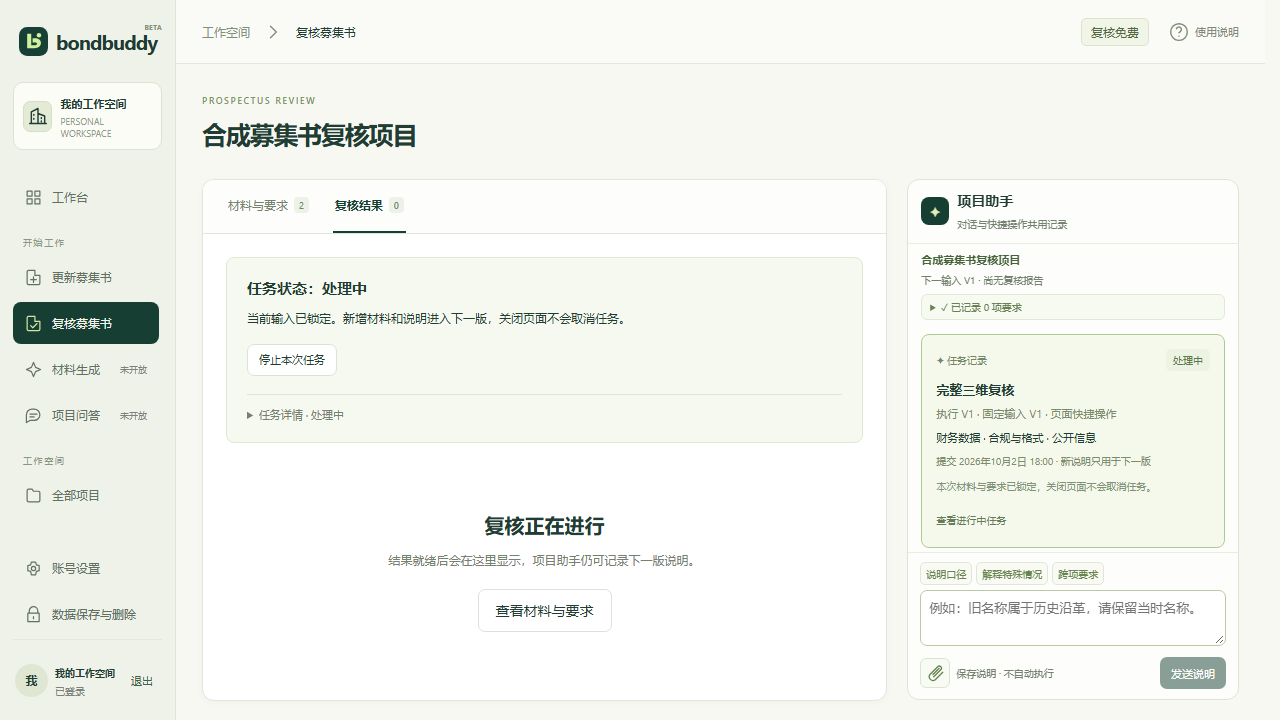
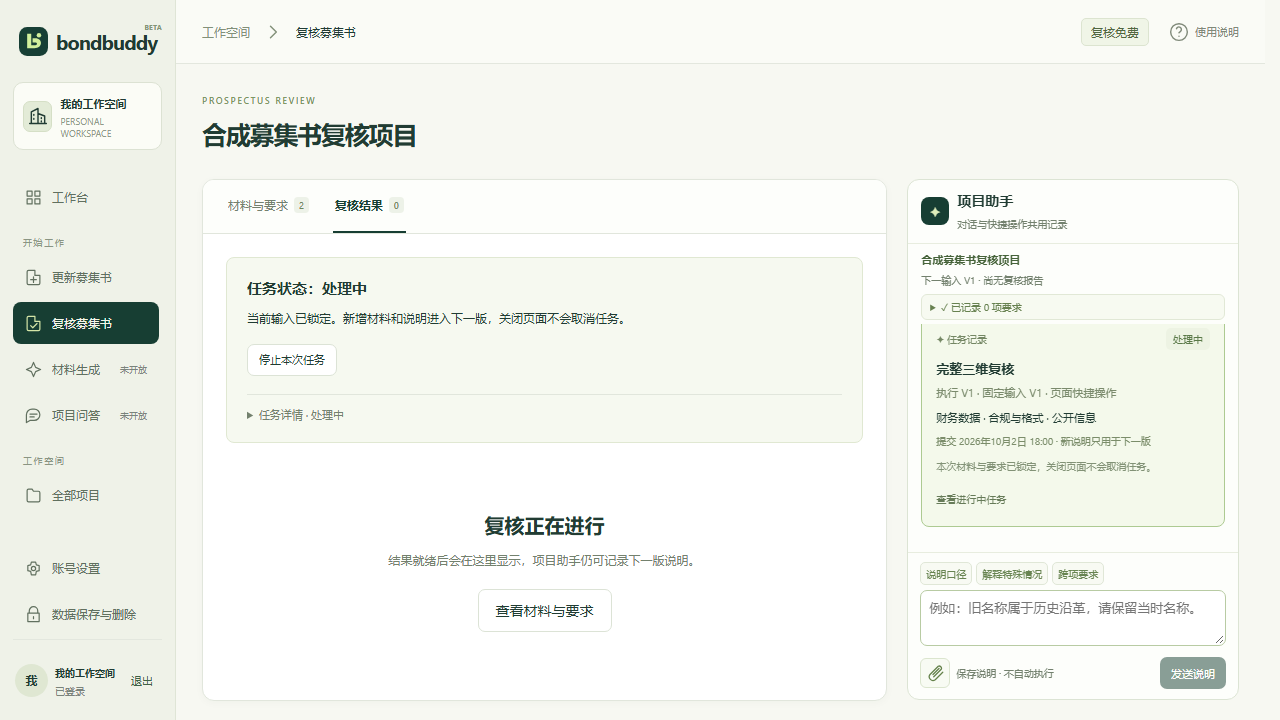
fix(m3): keep assistant messages readable and clarify interrupted replies

Changed region(s): [[0.7188, 0.4583, 0.9062, 0.7333], [0.9062, 0.4583, 0.9375, 0.5194]]

diff --git a/apps/web/tests/review-workspace.spec.ts b/apps/web/tests/review-workspace.spec.ts
@@ -423,13 +423,18 @@ test('linked shortcut uses one real task card without manufacturing chat and pro
 test('720px desktop keeps the running-task timeline readable and the evidence/send controls visible',async({page})=>{
   const state=fixture();state.linked=true;state.workspace.selected_report=null;state.workspace.reports=[];state.workspace.artifacts=[];state.workspace.draft.requirements=[];
   const run=state.makeRun('run-1','running');state.runs.set('old',run);state.workspace.active_run=run;state.history[0]={...state.history[0],run,report_id:null,artifacts:[]};
+  state.workspace.messages.push({message_id:'synthetic-history-user',role:'user',content:'本次上传的合成审计报告用于现金流口径核对，请保留原历史名称并记录补充说明。',context:{project_id:id,report_id:null,finding_ids:[],material_refs:[]},created_at:'2026-10-02T09:55:00Z',reply_status:'failed',reply_to:null,proposal:null,error:'ASSISTANT_PROCESS_INTERRUPTED'});
   await page.setViewportSize({width:1280,height:720});await setup(page,state);await expect(page.locator('#review-agent')).toHaveClass(/review-agent-compact/);await expect(page.locator('[data-task-run="run-1"]')).toContainText('处理中');
+  const message=page.locator('[data-message-id="synthetic-history-user"]');await expect(message).toHaveCSS('display','block');await expect(message.locator('.review-warning')).toContainText('助手回复中断');await expect(message).not.toContainText('ASSISTANT_PROCESS_INTERRUPTED');
+  const messageGeometry=await message.evaluate(node=>{const box=(selector:string)=>{const bounds=node.querySelector(selector)!.getBoundingClientRect();return{top:bounds.top,bottom:bounds.bottom,width:bounds.width};};return{display:getComputedStyle(node).display,width:node.getBoundingClientRect().width,header:box('header'),body:box('p:not(.review-warning)'),context:box('small'),error:box('.review-warning')};});
+  expect(messageGeometry.body.width).toBeGreaterThanOrEqual(220);expect(messageGeometry.body.width/messageGeometry.width).toBeGreaterThan(0.8);expect(messageGeometry.header.bottom).toBeLessThanOrEqual(messageGeometry.body.top);expect(messageGeometry.body.bottom).toBeLessThanOrEqual(messageGeometry.context.top);expect(messageGeometry.context.bottom).toBeLessThanOrEqual(messageGeometry.error.top);
+  await mkdir('../../../diagnostics/m3-linked-implementation',{recursive:true});await page.screenshot({path:'../../../diagnostics/m3-linked-implementation/synthetic-message-desktop-1280x720.png'});await mkdir('test-evidence/m3-linked',{recursive:true});await page.screenshot({path:'test-evidence/m3-linked/runtime-message-desktop-1280x720.png'});await page.locator('.review-chat').evaluate(log=>log.scrollTop=log.scrollHeight);
   const geometry=await page.evaluate(()=>{
     const box=(selector:string)=>{const node=document.querySelector(selector)!;const bounds=node.getBoundingClientRect();return{top:bounds.top,bottom:bounds.bottom,height:bounds.height,width:bounds.width};};
     return{viewport:{width:innerWidth,height:innerHeight},assistant:box('#review-agent'),timeline:box('.review-chat'),composer:box('.review-composer'),task:box('[data-task-run="run-1"]'),send:box('[data-assistant-action="send"]'),evidence:box('[data-assistant-action="attach-evidence"]'),horizontal_overflow:document.documentElement.scrollWidth>innerWidth};
   });
   expect(geometry.viewport).toEqual({width:1280,height:720});expect(geometry.timeline.height).toBeGreaterThanOrEqual(180);expect(geometry.assistant.bottom).toBeLessThanOrEqual(720);expect(geometry.send.bottom).toBeLessThanOrEqual(720);expect(geometry.evidence.bottom).toBeLessThanOrEqual(720);expect(Math.min(geometry.task.bottom,geometry.timeline.bottom)-Math.max(geometry.task.top,geometry.timeline.top)).toBeGreaterThanOrEqual(140);expect(geometry.horizontal_overflow).toBe(false);
-  await mkdir('../../../diagnostics/m3-linked-implementation',{recursive:true});await page.screenshot({path:'../../../diagnostics/m3-linked-implementation/synthetic-runtime-desktop-1280x720.png'});await writeFile('../../../diagnostics/m3-linked-implementation/synthetic-runtime-desktop-1280x720.geometry.json',JSON.stringify({kind:'synthetic UI geometry',...geometry},null,2)+'\n');await mkdir('test-evidence/m3-linked',{recursive:true});await page.screenshot({path:'test-evidence/m3-linked/runtime-desktop-1280x720.png'});
+  await page.screenshot({path:'../../../diagnostics/m3-linked-implementation/synthetic-runtime-desktop-1280x720.png'});await writeFile('../../../diagnostics/m3-linked-implementation/synthetic-runtime-desktop-1280x720.geometry.json',JSON.stringify({kind:'synthetic UI geometry',message:messageGeometry,...geometry},null,2)+'\n');await page.screenshot({path:'test-evidence/m3-linked/runtime-desktop-1280x720.png'});
   expect(state.requests).toHaveLength(0);expect(state.executes).toHaveLength(0);expect(state.workspace.active_run).toEqual(run);
 });
 

diff --git a/apps/web/src/review-assistant.ts b/apps/web/src/review-assistant.ts
@@ -127,7 +127,8 @@ export class ReviewAssistant {
     const accepted=proposal&&this.workspace?.accepted_proposals?.find(item=>item.proposal.proposal_id===proposal.proposal_id);
     const typed=proposal&&isTypedReviewProposal(proposal);
     const label=proposal?typed?reviewOperationLabels[proposal.operation]:'修订提议':'';
-    return `<article class="review-message ${message.role}" data-message-id="${esc(message.message_id)}"><header>${message.role==='user'?'你':'项目助手'} · ${esc(date(message.created_at))}</header><p>${esc(message.content)}</p><small title="${esc([message.context.report_id??'',...message.context.finding_ids].join(' · '))}">${esc(this.contextLabel(message.context))}</small>${refs?`<div class="review-message-links">${refs}</div>`:''}${message.role==='user'&&['queued','running'].includes(message.reply_status)?'<small role="status">说明已保存，等待助手回复…</small>':''}${['failed','unknown'].includes(message.reply_status)?`<p class="review-warning">${message.error?esc(message.error):'助手回复未完成。说明已保存；已提交业务任务的状态单独保留。'}</p>`:''}${proposal?`<div class="review-proposal"><p><strong>${accepted?'已采纳要求':'待核对的'+label}</strong><br>${esc(proposal.explanation)}<br>${typed&&proposal.operation==='full_review'?'完整三个维度':`${proposal.finding_ids.length+(typed?proposal.related_finding_ids.length:0)} 项及关联范围`}</p><button class="btn secondary small" data-assistant-action="proposal" data-proposal-id="${esc(proposal.proposal_id)}">${accepted?'查看已采纳范围':typed?'核对范围':'查看并采纳计划'}</button><small>采纳只保存要求；明确确认才执行。</small></div>`:''}</article>`;
+    const replyFailure=['ASSISTANT_PROCESS_INTERRUPTED','MODEL_STREAM_BROKEN'].includes(message.error??'')?'助手回复中断。说明已保存；已提交业务任务的状态单独保留。':'助手回复未完成。说明已保存；已提交业务任务的状态单独保留。';
+    return `<article class="review-message ${message.role}" data-message-id="${esc(message.message_id)}"><header>${message.role==='user'?'你':'项目助手'} · ${esc(date(message.created_at))}</header><p>${esc(message.content)}</p><small title="${esc([message.context.report_id??'',...message.context.finding_ids].join(' · '))}">${esc(this.contextLabel(message.context))}</small>${refs?`<div class="review-message-links">${refs}</div>`:''}${message.role==='user'&&['queued','running'].includes(message.reply_status)?'<small role="status">说明已保存，等待助手回复…</small>':''}${['failed','unknown'].includes(message.reply_status)?`<p class="review-warning">${esc(replyFailure)}</p>`:''}${proposal?`<div class="review-proposal"><p><strong>${accepted?'已采纳要求':'待核对的'+label}</strong><br>${esc(proposal.explanation)}<br>${typed&&proposal.operation==='full_review'?'完整三个维度':`${proposal.finding_ids.length+(typed?proposal.related_finding_ids.length:0)} 项及关联范围`}</p><button class="btn secondary small" data-assistant-action="proposal" data-proposal-id="${esc(proposal.proposal_id)}">${accepted?'查看已采纳范围':typed?'核对范围':'查看并采纳计划'}</button><small>采纳只保存要求；明确确认才执行。</small></div>`:''}</article>`;
   }
 
   private contextLabel(context: ReviewContext): string {

diff --git a/apps/web/src/review-workspace.css b/apps/web/src/review-workspace.css
@@ -80,6 +80,8 @@
 .review-agent-suggestions button:hover{background:#edf3e4}.review-agent-context{line-height:1.6}
 .review-agent-context .review-tag{max-width:100%;overflow-wrap:anywhere}.review-context-project,.review-context-input{flex-basis:100%;overflow-wrap:anywhere}.review-context-project{font-size:11px;color:#46633a}.review-attach-evidence{display:grid;place-items:center;width:30px;height:30px;flex:none;border:1px solid #dbe5ce;border-radius:6px;background:#f8fbf3;color:#64814a;cursor:pointer}.review-attach-evidence:hover{background:#edf4e4}.review-attach-evidence svg{width:18px;height:18px}.review-message p,.review-composer textarea{font-size:13px}
 .review-context-compact{display:none}
+.review-workspace .review-chat .review-message{display:block}
+.review-workspace .review-chat .review-message small{margin-top:7px;color:var(--review-muted)}
 .review-saved-requirements{margin:0 16px 8px;padding:9px 10px;border:1px solid #e1e8d6;border-radius:6px;color:#678150;background:#f7faf1;font-size:11px}
 .review-saved-requirements summary{cursor:pointer}.review-saved-requirements ul{padding-left:17px;margin-bottom:0;line-height:1.8;overflow-wrap:anywhere}
 .review-task-card{padding:14px;margin:3px 0 17px;border:1px solid #d5e1c9;border-radius:8px;background:#f7faf1;font-size:12px;overflow-wrap:anywhere}

diff --git a/docs/acceptance/2026-10-04-m3-linked-workspace.md b/docs/acceptance/2026-10-04-m3-linked-workspace.md
@@ -27,7 +27,7 @@ Codex CLI 仍是唯一 AI 引擎；API、worker、PostgreSQL 队列和私有 Blo
 | worker | `node --test --test-concurrency=1` 后接下列十个测试文件 | 110 pass，0 fail，0 skip |
 | 完整文件链 | `BB_TEST_M3_CLI_REVISION=1 node --test apps/worker/dist/m3-review-pipeline.pg.integration.test.js` | 1 pass，0 fail，0 skip |
 | web 单元 | `npm run test:unit -w @bondbuddy/web` | 61 pass，0 fail，0 skip |
-| web E2E | `apps/web/tests/review-workspace.spec.ts`，Microsoft Edge Chromium | 28 pass，0 fail，0 skip；最终 58.1s，exit 0 |
+| web E2E | `apps/web/tests/review-workspace.spec.ts`，Microsoft Edge Chromium | 28 pass，0 fail，0 skip；最终约 1.0m，exit 0 |
 
 worker 文件：`review-assistant-linked`、`review-follow-up`、`review-assistant`、`review-model-stage`、`review-public-stage`、`review-tools`、`review-reassembly`、`review-word-registration.pg.integration`、`review-revision-cli-stage`、`review-revision`（均为 `apps/worker/dist/*.test.js`）。相关工程测试共 218 项；公共契约 40 项测试和 182 个样例另列，重复的 Windows worker 测试不累加。
 
@@ -57,6 +57,8 @@ worker 文件：`review-assistant-linked`、`review-follow-up`、`review-assista
 按用户已确认决定，顶部发行人／市场占位元信息已移除；正式项目标题来自真实项目名。可见任务阶段来自 host 事件，不展示模拟思考文本；真实失败／未覆盖项如实显示。桌面发送区已针对初次进入时 panel top 修正高度。
 
 较矮桌面窗口根据实际可用高度启用紧凑布局，压缩说明／上下文／输入区，保留完整绑定与功能；1280×720 的时间线高约 228px，任务卡、发送和补证入口均可见。新增 E2E 验证 resize、草稿与真实任务投影的可读高度。
+
+历史聊天气泡显式隔离全局账号 `.user` 的横排样式；时间、正文、引用上下文和安全中断提示按纵向阅读顺序展示，正文宽度与气泡保持一致。720px E2E 直接校验排版与宽度，不仅断言文案存在。
 
 助手上下文显示真实项目、输入与讨论对象；回形针复用材料上传并保留原草稿／引用。快捷修订计划用一次明确确认直接执行，固定确认时的来源和计划版本；丢响应重试复用请求，刷新确认已提交任务后关闭对应执行窗口。已采纳 V2 要求转新的快捷计划仍保留要求，执行来源明确为新的 quick_action；旧提议及执行不改写。
 
